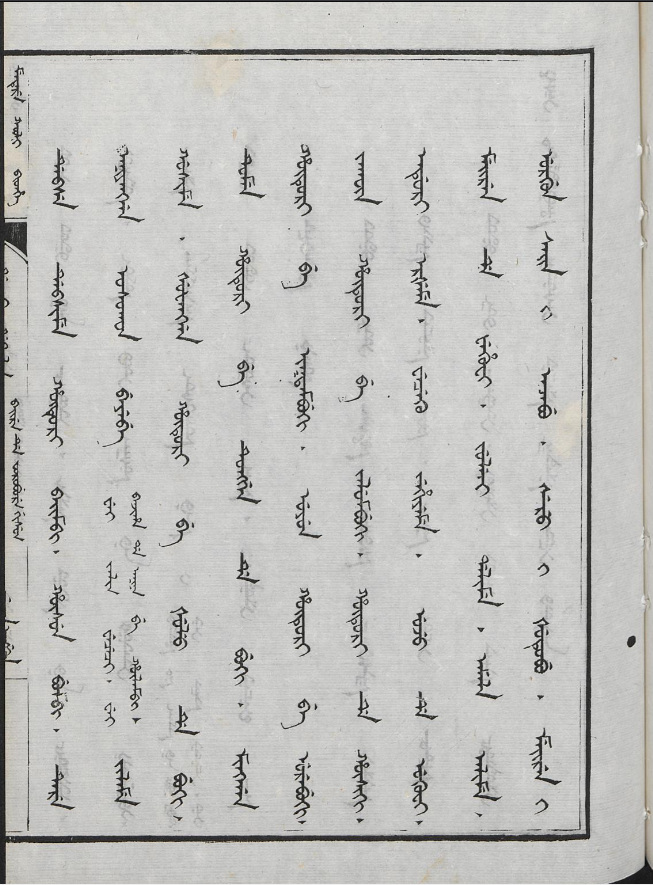
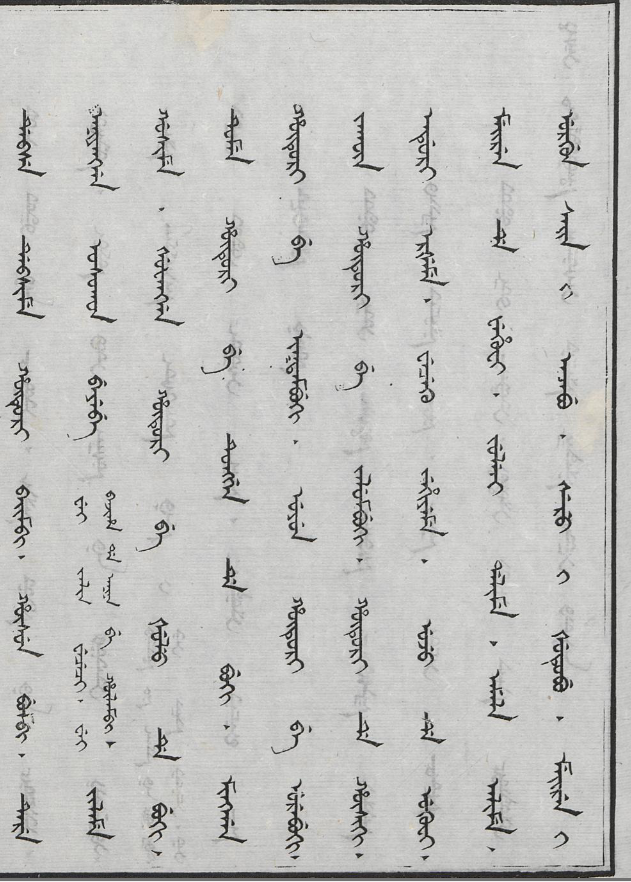
Crop page005's margin, fix a line break in page006, credit Pang
page005 is replaced by the same page without its margin, and page006's
transcription now breaks before jeku, as the print does. The scans are
probably from Tatiana Pang's "The worship of Fodo-mama". page005's
hvituri and hvisun are kept, as the print seems to spell them so.

Claude-Session: https://claude.ai/code/session_016SvcpSZdibpkeaLykv5WVN

diff --git a/ocr/real_pages/README.md b/ocr/real_pages/README.md
@@ -58,12 +58,16 @@ aren't transcribed; punctuation may be, and is ignored when scoring.
 ## page005 and page006
 
 - **Images:** two pages of the Fodo Mama prayers (*Fodo Mama court*), from
-  [manc.hu](https://manc.hu/en/tools/reader/text/36648/Fodo-Mama-court).
-  Where manc.hu's scans come from isn't yet recorded.
+  [manc.hu](https://manc.hu/en/tools/reader/text/36648/Fodo-Mama-court);
+  page005 is cropped to leave out the margin. manc.hu doesn't say where
+  its scans come from; probably Tatiana Pang, "The worship of Fodo-mama:
+  progenitor of the Manchus".
 - **Transcriptions:** from the same manc.hu text (© Fresco Sam-Sin, Léon
   Rodenburg). page005's second line holds a note printed small in two
   narrow columns; the transcription gives it inline in parentheses, which
-  are ignored when scoring like other punctuation.
+  are ignored when scoring like other punctuation. page005's `hvituri`
+  (twice) and `hvisun` follow the print, which seems to spell *hūturi* and
+  *hūsun* this way; Run 30 reads them as the usual spellings.
 
 `sources.json` gives each page's credit and link in short, for the
 server (`/random?source=page`) to show beside it.
@@ -74,9 +78,9 @@ Characters / words, as of 2026-11-10:
 
 | Model | page001 | page002 | page003 | page004 (handwritten) | page005 | page006 |
 |---|---|---|---|---|---|---|
-| Run 30 | 97.6% / 87.3% | 93.8% / 75.9% | 91.0% / 78.9% | 48.3% / 3.4% | 88.6% / 70.4% | 92.8% / 84.2% |
-| Run 28 | 88.2% / 51.9% | 86.8% / 52.9% | 88.8% / 57.9% | 42.2% / 1.0% | 85.2% / 57.7% | 88.5% / 65.8% |
-| Run 26 | 82.0% / 44.3% | 77.9% / 36.8% | 81.5% / 47.4% | 37.8% / 2.4% | 79.4% / 46.5% | 83.2% / 55.3% |
+| Run 30 | 97.6% / 87.3% | 93.8% / 75.9% | 91.0% / 78.9% | 48.3% / 3.4% | 89.1% / 71.8% | 97.6% / 89.5% |
+| Run 28 | 88.2% / 51.9% | 86.8% / 52.9% | 88.8% / 57.9% | 42.2% / 1.0% | 84.7% / 53.5% | 93.3% / 71.1% |
+| Run 26 | 82.0% / 44.3% | 77.9% / 36.8% | 81.5% / 47.4% | 37.8% / 2.4% | 79.6% / 45.1% | 87.5% / 60.5% |
 
 On the printed pages, most of Run 30's word errors are pairs of words set
 so close that they're read as one (`hotonde` for `hoton de`). The

diff --git a/README.md b/README.md
@@ -46,7 +46,7 @@ Run 26 80.6%. A page takes about a second on one CPU core.
 On six real pages so far, in [`ocr/real_pages`](ocr/real_pages) and
 scored by `python -m ocr.evaluate_real_pages`: five printed (one with six
 columns of small Chinese glosses) and one handwritten letter. On the
-printed pages the Manchu text reads at 88.6–97.6% character / 70.4–87.3%
+printed pages the Manchu text reads at 89.1–97.6% character / 71.8–89.5%
 word accuracy, with every gloss left out; most word errors are pairs of
 words set so close that they're read as one (`hotonde` for `hoton de`).
 The handwritten letter reads at 48.3% characters.
